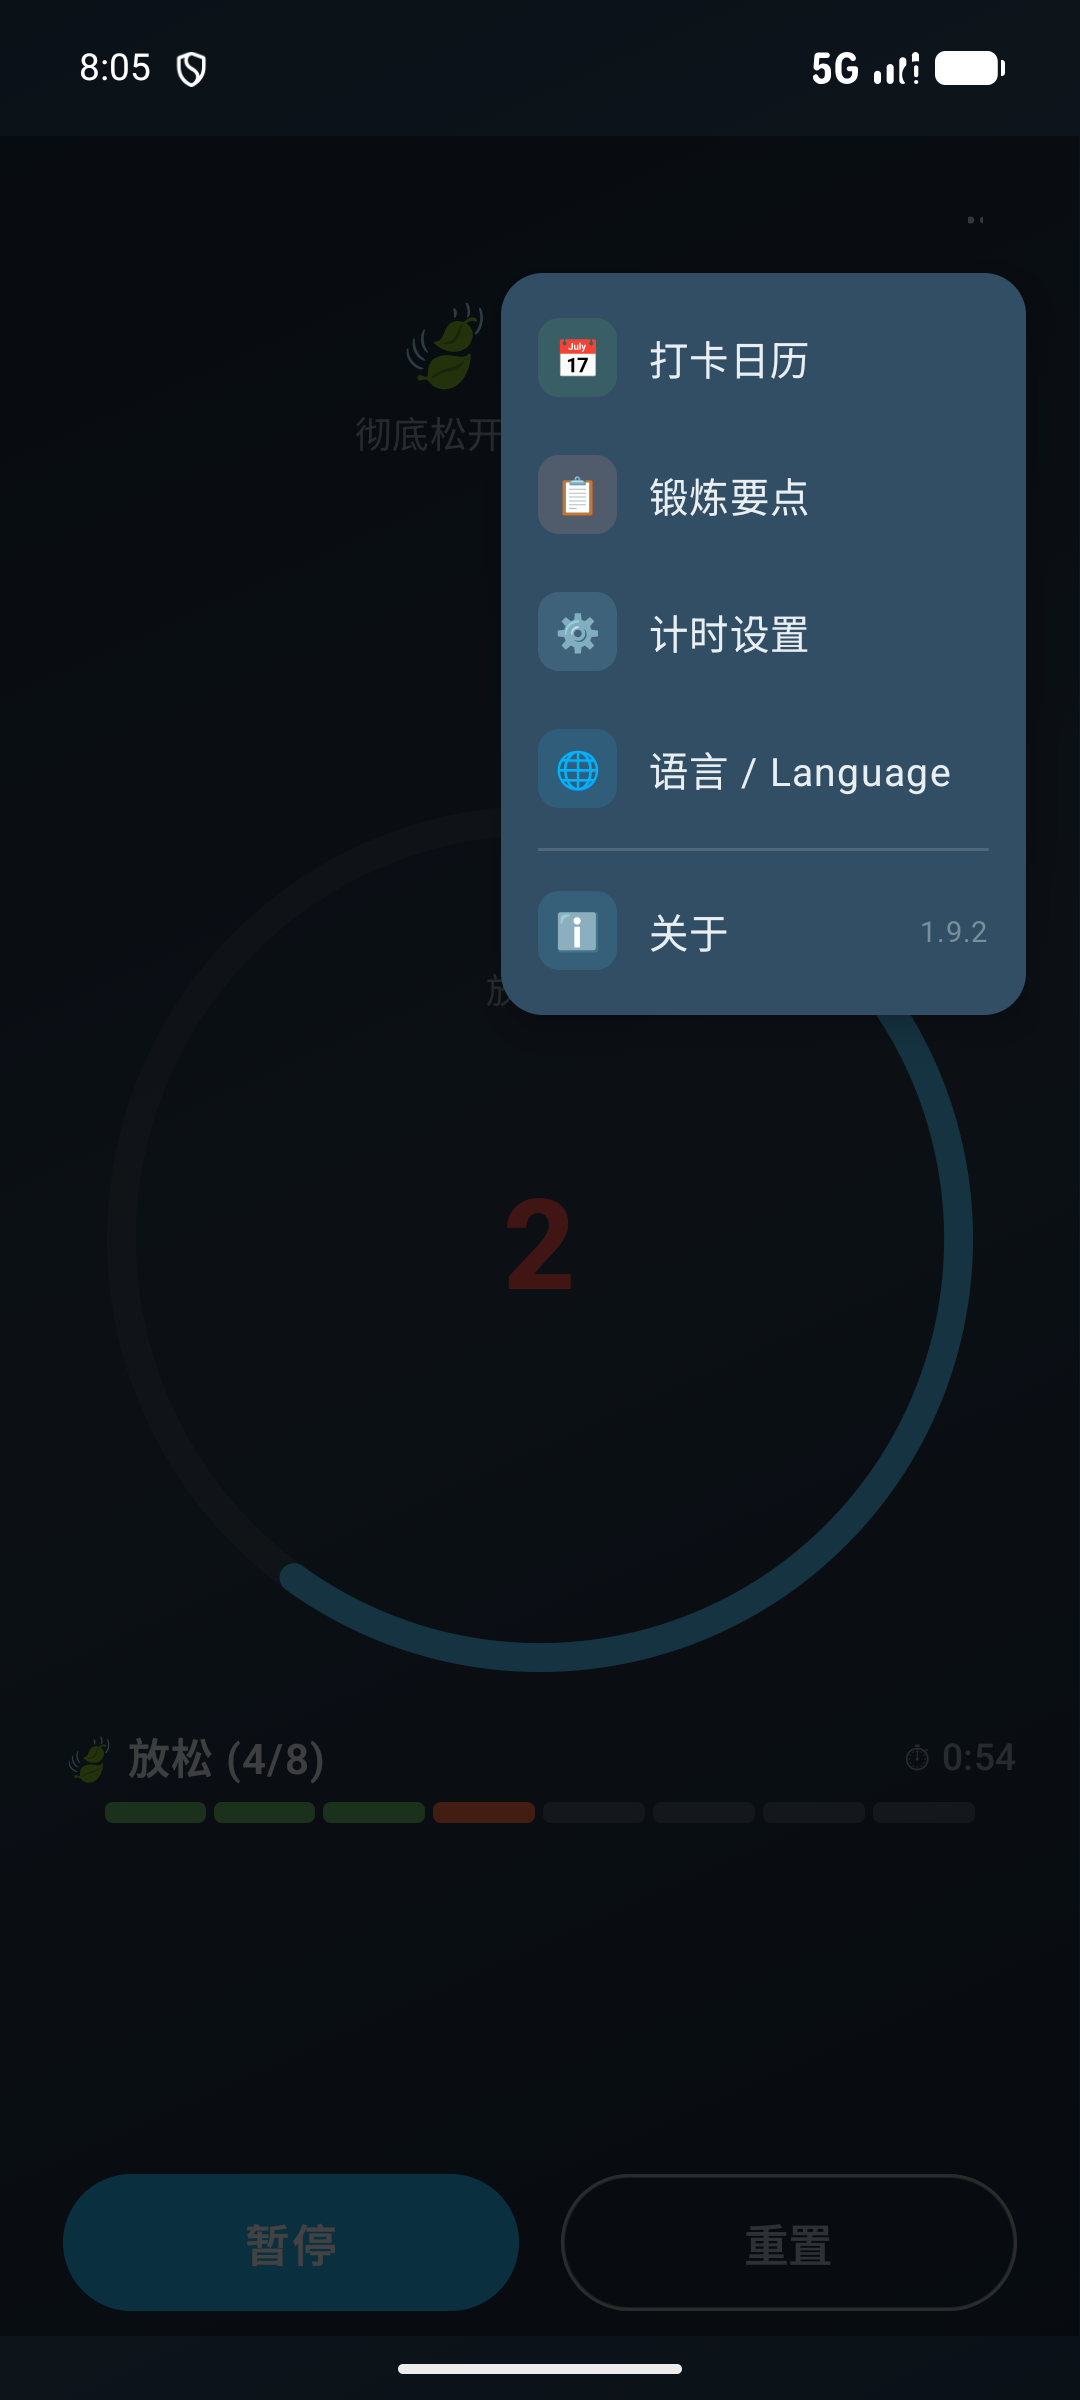
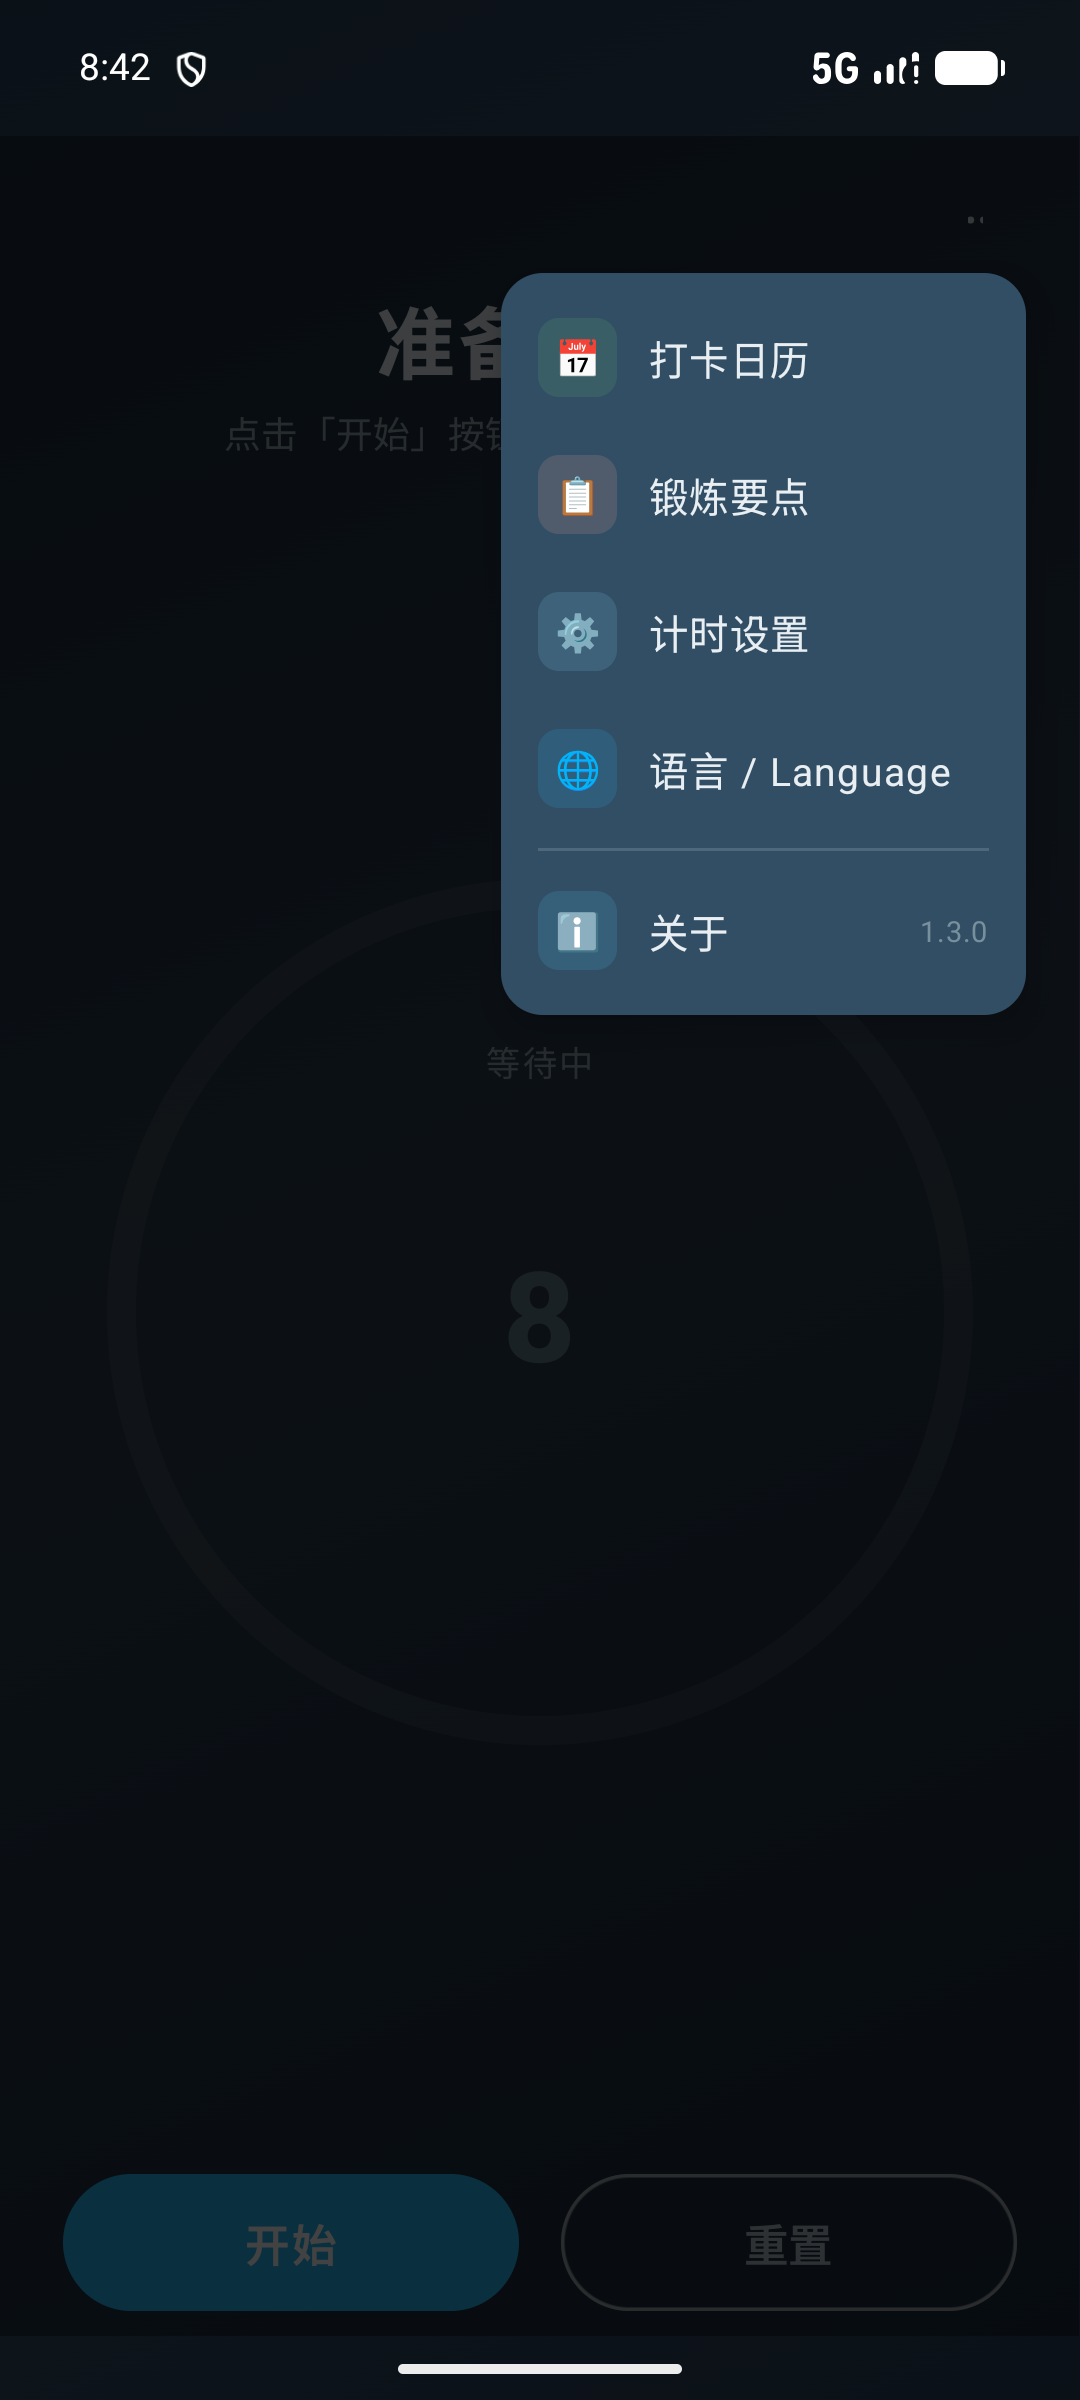
chore(release): 版本号回归三段式 1.3.0(4)——用户要求不跳号
- build.gradle.kts: versionCode 12 → 4（上个已发布版 1.2=3，顺次 +1），versionName 1.9.2 → 1.3.0
- CHANGELOG: [1.9.2] → [1.3.0]，头部补版本号规则（三段式 + versionCode 顺次 +1）
- 两份 README 版本徽章同步 1.3.0(4)
- menu.png / menu_en.png 重抓（「关于」行版本字样 1.3.0，视觉校验通过）

diff --git a/CHANGELOG.md b/CHANGELOG.md
@@ -1,8 +1,9 @@
 # Changelog
 
 本项目的版本发布记录。日期以 APK 打包日为准。
+版本号采用三段式（MAJOR.MINOR.PATCH），versionCode 顺次 +1，不跳号。
 
-## [1.9.2] - 2026-09-17
+## [1.3.0] - 2026-09-17
 
 ### 新增
 
@@ -14,7 +15,7 @@
 
 - **舒缓锻炼改为右手开始**（原左手先），三处 JSON 配置同步。
 - **首页布局**：模式卡 + 打卡日历行改为在标题与页脚间垂直居中（上下等重 weight），两侧留白 24→16dp——修复内容堆积在屏幕上半部、下方 43% 空白的问题（uiautomator 实测卡片块 29%–52% → 45%–67%）。
-- 通知文案与渠道名随应用语言；`Model.tips` 并入 `L10n`；单元测试 48 → 63 例（新增 `L10nTest`）；版本 1.2(3) → 1.9.2(12)。
+- 通知文案与渠道名随应用语言；`Model.tips` 并入 `L10n`；单元测试 48 → 63 例（新增 `L10nTest`）；版本 1.2(3) → 1.3.0(4)。
 
 ## [1.2] - 2026-09-12
 

diff --git a/README.md b/README.md
@@ -4,7 +4,7 @@
 
 **中文** | [English](README_EN.md)
 
-![Platform](https://img.shields.io/badge/Platform-Android-blue) ![Version](https://img.shields.io/badge/version-1.9.2(12)-green) ![minSdk](https://img.shields.io/badge/minSdk-26%20(Android%208.0)-orange) ![Deps](https://img.shields.io/badge/dependencies-zero-success) ![Tests](https://img.shields.io/badge/unit%20tests-63-brightgreen)
+![Platform](https://img.shields.io/badge/Platform-Android-blue) ![Version](https://img.shields.io/badge/version-1.3.0(4)-green) ![minSdk](https://img.shields.io/badge/minSdk-26%20(Android%208.0)-orange) ![Deps](https://img.shields.io/badge/dependencies-zero-success) ![Tests](https://img.shields.io/badge/unit%20tests-63-brightgreen)
 
 ## 📸 界面预览
 

diff --git a/README_EN.md b/README_EN.md
@@ -4,7 +4,7 @@
 
 [中文](README.md) | **English**
 
-![Platform](https://img.shields.io/badge/Platform-Android-blue) ![Version](https://img.shields.io/badge/version-1.9.2(12)-green) ![minSdk](https://img.shields.io/badge/minSdk-26%20(Android%208.0)-orange) ![Deps](https://img.shields.io/badge/dependencies-zero-success) ![Tests](https://img.shields.io/badge/unit%20tests-63-brightgreen)
+![Platform](https://img.shields.io/badge/Platform-Android-blue) ![Version](https://img.shields.io/badge/version-1.3.0(4)-green) ![minSdk](https://img.shields.io/badge/minSdk-26%20(Android%208.0)-orange) ![Deps](https://img.shields.io/badge/dependencies-zero-success) ![Tests](https://img.shields.io/badge/unit%20tests-63-brightgreen)
 
 ## 📸 Screenshots
 
